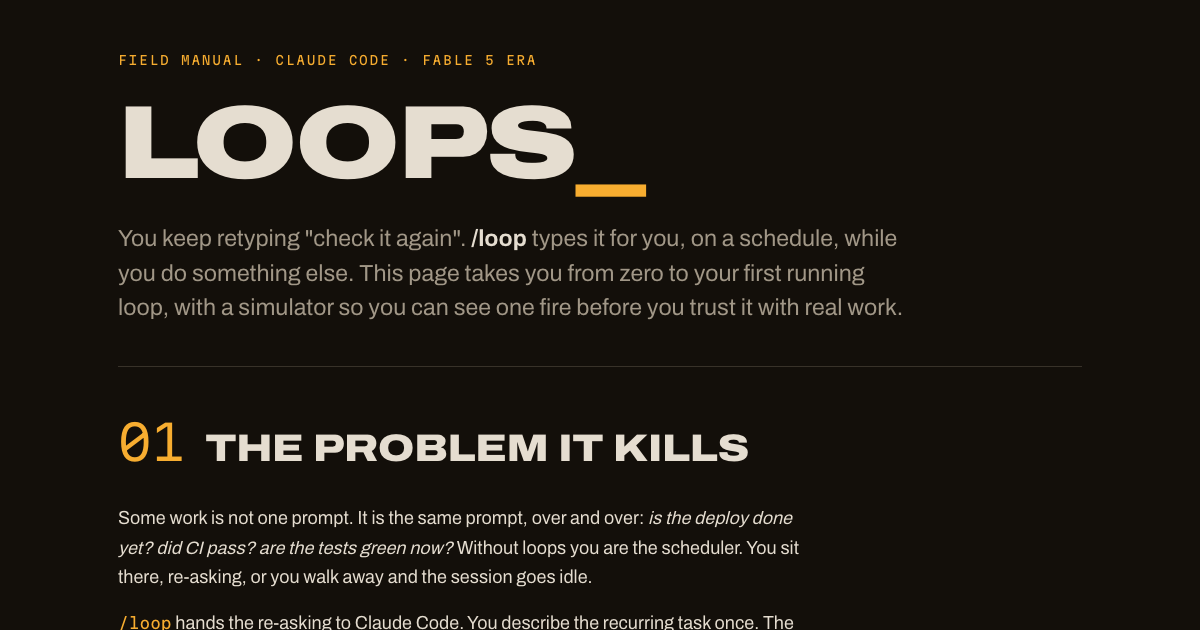
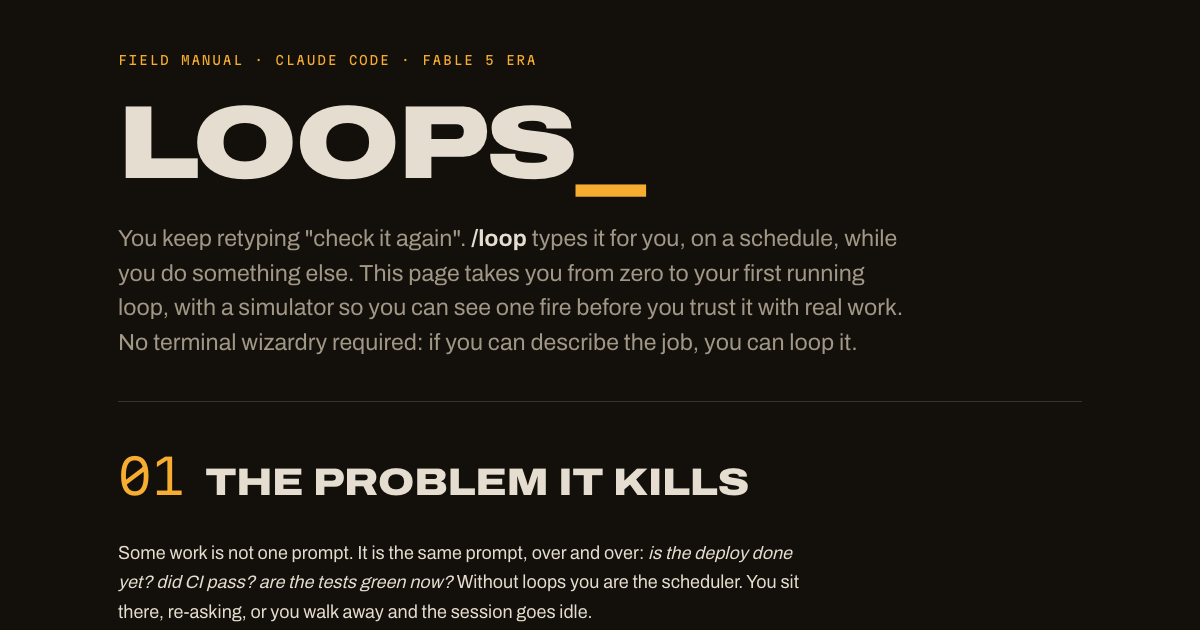
Reframe for business-AI audience, ride Fable 5 angle

diff --git a/index.html b/index.html
@@ -6,8 +6,8 @@
 <title>Loops — a field manual for Claude Code's /loop</title>
 <meta name="description" content="Interactive field manual for Claude Code's /loop: watch loops run in a simulator, build your own commands, and learn the mistakes that burn tokens. Zero to first loop in 15 minutes.">
 <meta property="og:type" content="website">
-<meta property="og:title" content="Loops — interactive field manual for Claude Code's /loop">
-<meta property="og:description" content="Watch loops run in a simulator, build your own /loop commands, learn the mistakes that burn tokens. Zero to first loop in 15 minutes.">
+<meta property="og:title" content="Loops — the Fable 5-era skill everyone skipped">
+<meta property="og:description" content="Stop prompting, start delegating. Watch loops run in a simulator, build your own /loop commands, go from zero to your first loop in 15 minutes. No terminal wizardry required.">
 <meta property="og:url" content="https://mikychicco.github.io/loops-tutorial/">
 <meta property="og:image" content="https://mikychicco.github.io/loops-tutorial/og.png">
 <meta name="twitter:card" content="summary_large_image">
@@ -350,14 +350,15 @@ kbd{
 <header>
   <p class="kicker">Field manual · Claude Code · Fable 5 era</p>
   <h1>Loops<span class="blink">_</span></h1>
-  <p class="lede">You keep retyping "check it again". <strong>/loop</strong> types it for you, on a schedule, while you do something else. This page takes you from zero to your first running loop, with a simulator so you can see one fire before you trust it with real work.</p>
+  <p class="lede">You keep retyping "check it again". <strong>/loop</strong> types it for you, on a schedule, while you do something else. This page takes you from zero to your first running loop, with a simulator so you can see one fire before you trust it with real work. No terminal wizardry required: if you can describe the job, you can loop it.</p>
 </header>
 
 <!-- 01 WHY -->
 <section id="why">
   <div class="secthead"><span class="secnum">01</span><h2>The problem it kills</h2></div>
   <p>Some work is not one prompt. It is the same prompt, over and over: <em>is the deploy done yet? did CI pass? are the tests green now?</em> Without loops you are the scheduler. You sit there, re-asking, or you walk away and the session goes idle.</p>
-  <p style="margin-top:1rem"><code style="font-family:var(--mono);color:var(--amber);font-size:0.85em">/loop</code> hands the re-asking to Claude Code. You describe the recurring task once. The session re-fires it on an interval, does the work each time, and reports back. It keeps running while the session is open, and it knows how to stop.</p>
+  <p style="margin-top:1rem"><code style="font-family:var(--mono);color:var(--amber);font-size:0.85em">/loop</code> hands the re-asking to Claude Code. You describe the recurring task once, in plain language; Claude figures out the commands. The session re-fires it on an interval, does the work each time, and reports back. It keeps running while the session is open, and it knows how to stop.</p>
+  <p style="margin-top:1rem">This is the shift from <strong>operating</strong> an AI (you prompt, it answers, you prompt again) to <strong>managing</strong> one (you set the job, it owns the follow-through). Fable 5's long-session reliability is what makes that trade finally worth taking.</p>
   <div class="note">
     <span class="tag">One sentence to remember</span>
     A loop is a prompt that re-sends itself until you press <kbd>Esc</kbd>, the task is provably done, or seven days pass.